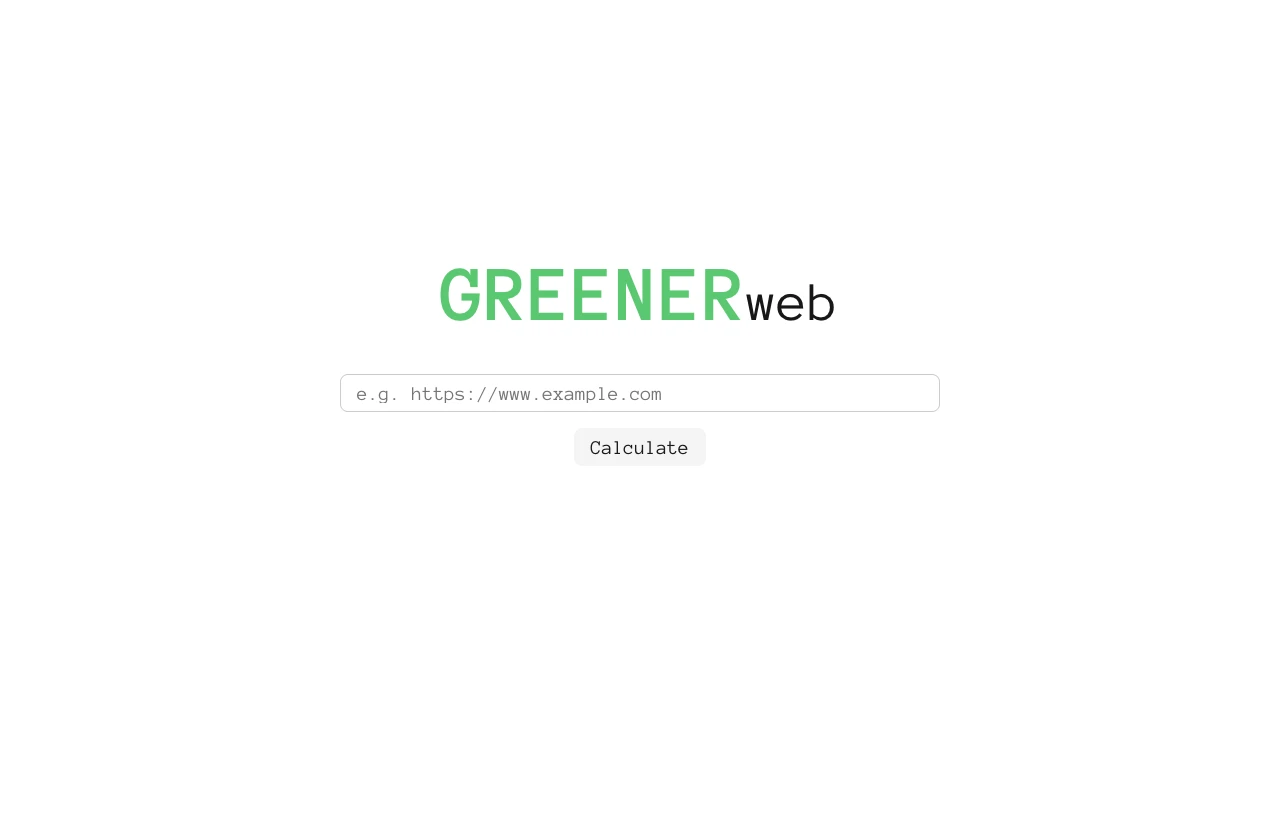
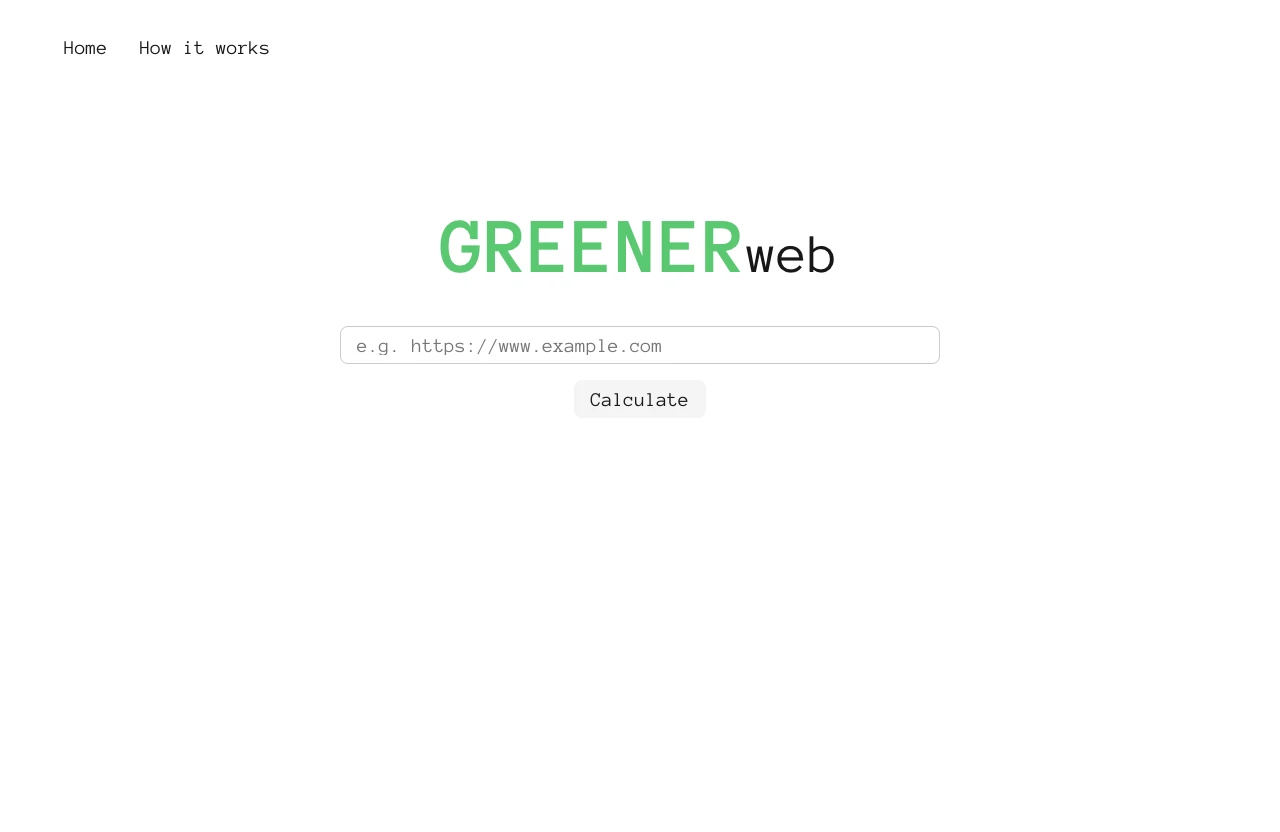
add greener web case study

diff --git a/src/content/projects/greener-web.md b/src/content/projects/greener-web.md
@@ -14,5 +14,20 @@ links:
     [api code, https://github.com/APJohns/greenerweb-api],
   ]
 sortOrder: 4
-draft: true
 ---
+
+The internet is responsible for 2-5% of global emissions. That’s more than the aviation industry! This has spurred a web sustainability movement. Greener Web is one way that I am trying to contribute to that movement. Greener Web is a web sustainability metrics tool. In its current form, you can enter in a URL to generate a report for the estimated emissions per visit to that page. You can learn more about [how it works](https://greenerweb.vercel.app/how-it-works) on the site. I’m working on some really exciting additions to this site, so be sure to tune back here in the near future.
+
+![Example of a Greener Web Report](@/images/screenshots/greener-web-report.webp)
+
+## The Backend
+
+The backend is an API built with Node.js and Hono, hosted on Render. Its primary endpoint takes in a URL and returns the data needed for the report. It’s a pretty straightforward REST API with auth tokens. It first validates the token and URL, then spins up a headless browser using Puppeteer. It then navigates to the URL and intercepts the responses, measuring the size of the files transferred. That value then gets fed into the Sustainability Web Model via the co2.js package. The URL is also sent to The Green Web Foundation’s green-check API to determine the green factor of the hosting server. Those values are then sent back to the user via a response.
+
+### co2.js
+
+When I first began this project, I implemented the model locally. While the basic model was fairly straightforward to implement, maintaining it would be more challenging. The model depends on global data from electrical grids and their percent of renewable resources. This led me to reach for the co2.js package, which tracks these values and uses them in their model. This would allow me to focus on the project and not worry about tracking this data myself, leaving that to a dedicated team. It was also nice to see that the values I was getting from my implementation matched exactly with what co2.js was giving me.
+
+## The Frontend
+
+The frontend is a Next.js application using the app router and utilizes server-side rendering (SSR) hosted on Vercel. The landing page is Google-esque input with URL validation. There’s also a link to explain how the report is generated. On entry of the URL, the app router loading state is triggered while an API request is made to the backend. Once that data comes back, the report is shown. The frontend is pretty simple in this first phase of the project. There’s a lot more to come that I’m excited to share when it’s ready!
